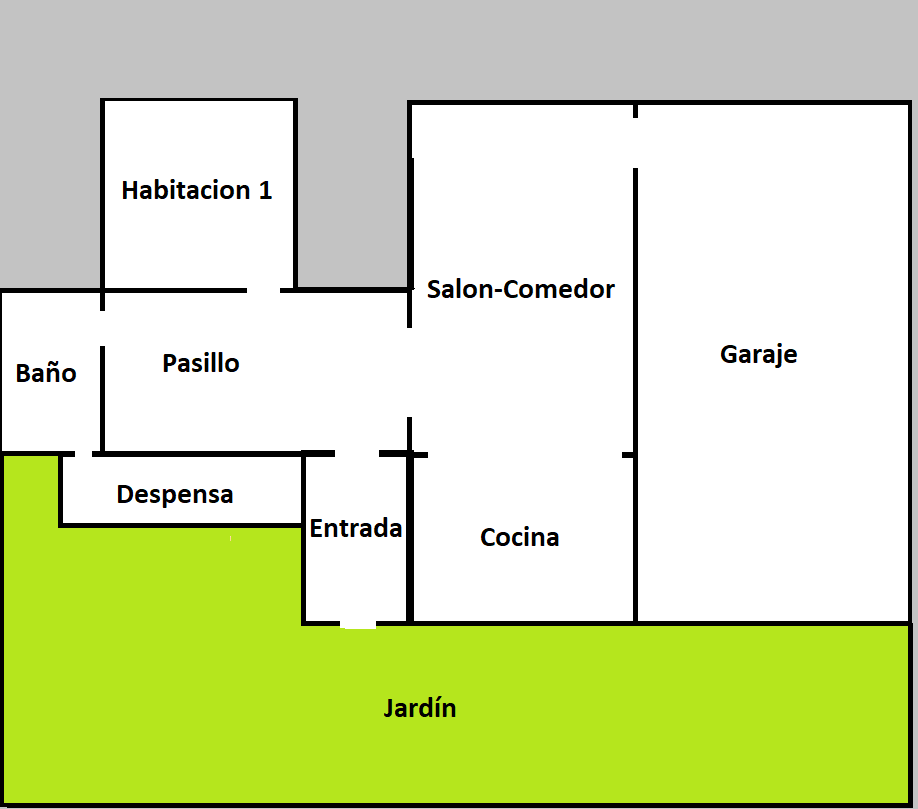
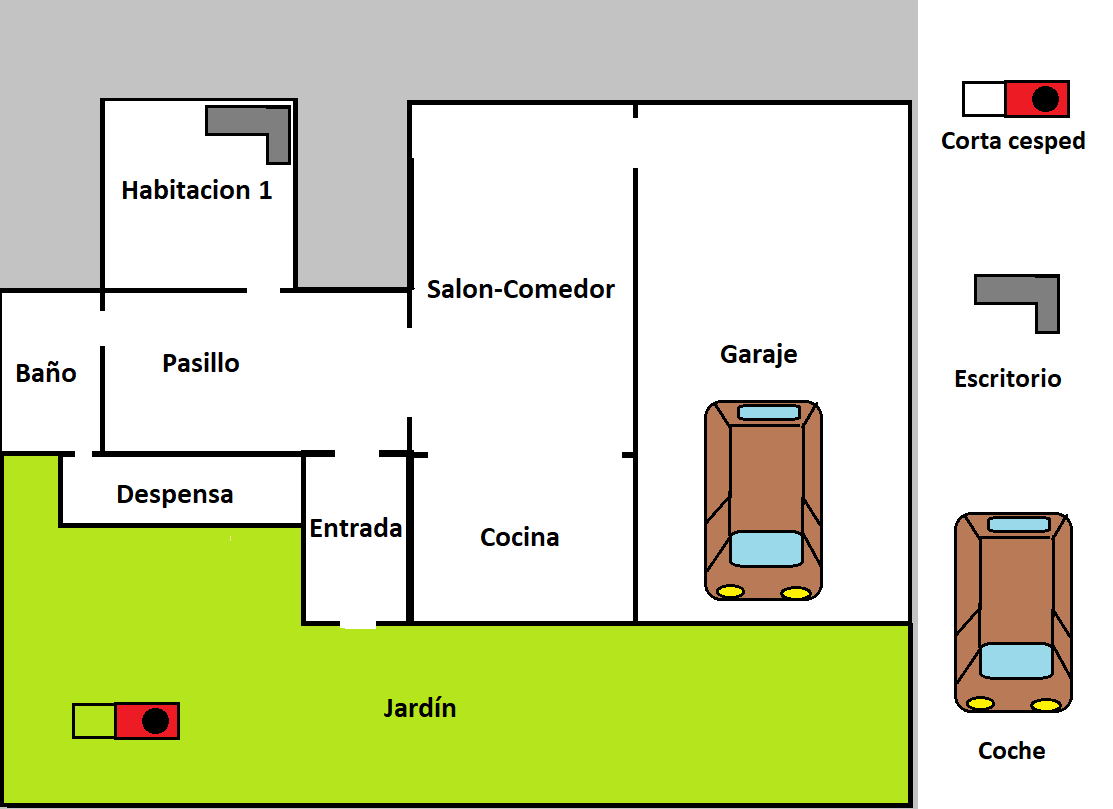
Commit 14 Se han añadido objetos a las salas

diff --git a/Room.java b/Room.java
@@ -18,6 +18,8 @@ public class Room
 {
     private String description;
     private HashMap<String, Room> salida;
+    private String itemDescription;
+    private int itemWeight;
 
     /**
      * Create a room described "description". Initially, it has
@@ -25,10 +27,12 @@ public class Room
      * "an open court yard".
      * @param description The room's description.
      */
-    public Room(String description) 
+    public Room(String description, String itemDescription, int itemWeight) 
     {
         this.description = description;
         salida=new HashMap<>();
+        this.itemDescription=itemDescription;
+        this.itemWeight=itemWeight;
     }
 
     /**
@@ -60,6 +64,22 @@ public class Room
     public String getDescription()
     {
         return description;
+    }
+
+    /**
+     * Devuelve la descripcion del item;
+     * @return
+     */
+    public String getItemDescriptio() {
+        return itemDescription;
+    }
+
+    /**
+     * Devuelve el peso del objeto
+     * @return
+     */
+    public int getItemWeight() {
+        return itemWeight;
     }
 
     /**
@@ -99,7 +119,8 @@ public class Room
 
     /**
     * Devuelve un texto con la descripcion completa de la habitacion, que 
-    * incluye la descripcion corta de la sala y las salidas de la misma. Por ejemplo:
+    * incluye la descripcion corta de la sala y las salidas de la misma y 
+    * la descripcion del objeto y su peso. Por ejemplo:
     *     You are in the lab
     *     Exits: north west southwest
     * @return Una descripcion completa de la habitacion incluyendo sus salidas
@@ -108,6 +129,8 @@ public class Room
         String text = "Te encuentras ";
         text += getDescription();
         text += "\n" + getExitString();
+        text += "\nObjeto " + getItemDescriptio();
+        text += " , peso " + getItemWeight() + "kg";
         return text;
     }
 }

diff --git a/Game.java b/Game.java
@@ -37,15 +37,15 @@ public class Game
         Room entrada, pasillo, habitacion1, bano, salonComedor, cocina, garaje, despensa, jardin;
       
         // create the rooms
-        entrada = new Room("en la entrada de la casa");
-        pasillo = new Room("en el pasillo");
-        habitacion1 = new Room("en tu habitacion");
-        bano = new Room("en el baño");
-        salonComedor = new Room("en un salon");
-        cocina = new Room("en una cocina");
-        garaje = new Room("en un garaje");
-        despensa = new Room("en una despensa");
-        jardin = new Room("en un jardin");
+        entrada = new Room("en la entrada de la casa", "", 0);
+        pasillo = new Room("en el pasillo", "", 0);
+        habitacion1 = new Room("en tu habitacion", "Escritorio gris", 16);
+        bano = new Room("en el baño", "", 0);
+        salonComedor = new Room("en un salon", "", 0);
+        cocina = new Room("en una cocina", "", 0);
+        garaje = new Room("en un garaje", "Coche marron", 500);
+        despensa = new Room("en una despensa", "", 0);
+        jardin = new Room("en un jardin", "Corta cesped rojo", 25);
         
         // initialise room exits
         entrada.setExit("north", pasillo);

diff --git a/Parser.java b/Parser.java
@@ -67,7 +67,7 @@ public class Parser
     * Imprime una lista de las palabras de comando validas 
     */
     public String showCommands() {
-        String comandos = commands.showAll();
+        String comandos = commands.getComandList();
         return comandos;
     }
 }

diff --git a/CommandWords.java b/CommandWords.java
@@ -42,7 +42,7 @@ public class CommandWords
     /** 
     * Imprime por pantalla todos los comandos válidos 
     */
-    public String showAll() {
+    public String getComandList() {
         String comandos = "go, quit, help, look, eat";
         return comandos;
     }
